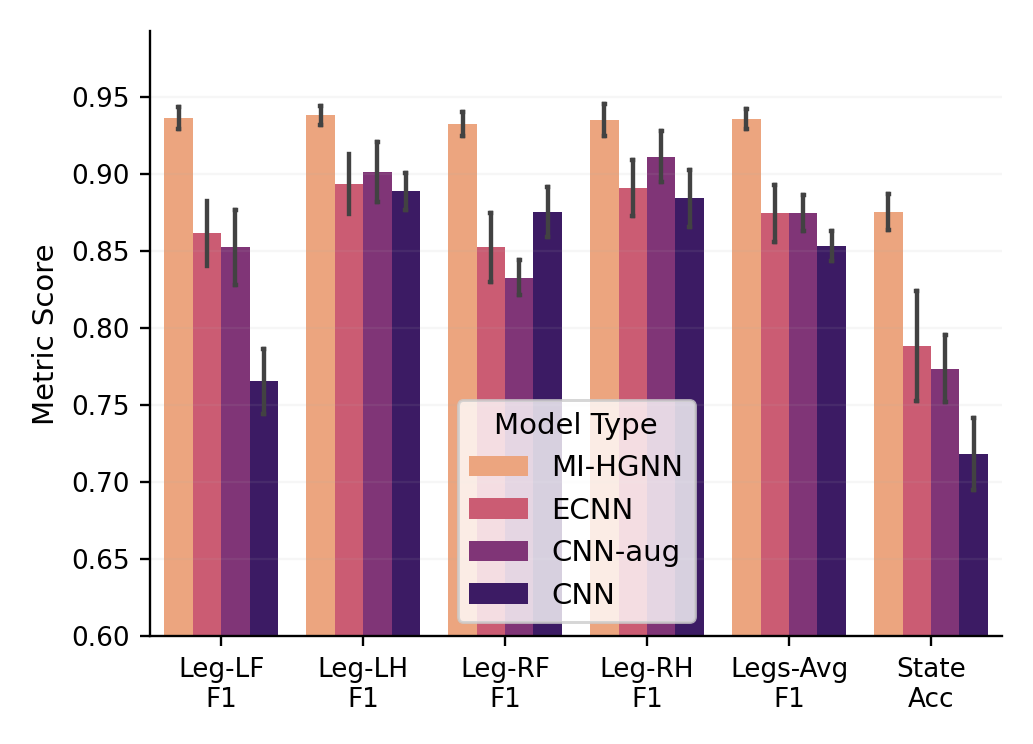
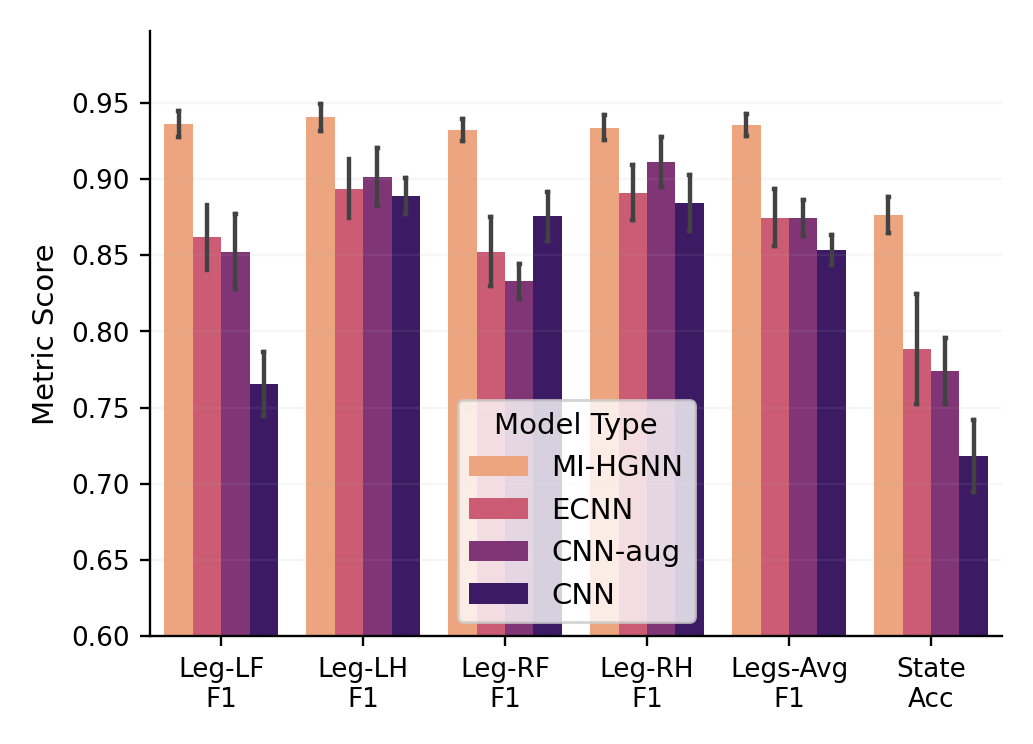
Updated figure to use MI-HGNN models trained with Early Stopping, as used by MorphoSymm

diff --git a/paper/contact_final_model_comparison.py b/paper/contact_final_model_comparison.py
@@ -262,10 +262,7 @@ def generate_figure_4_right():
             df_legs_states = pandas.concat((df_legs_states, df_state))
 
     # Load the MIHGNN results and put them into the dataframe
-    mihgnn_results = pd.read_csv("experiments/contact_sample_eff_splitted_mini-cheetah/model=MIHGNN_train_ratio=0.85/mi-hgnn_8_model_results.csv", index_col=0)
-
-    # Remove irrelevant columns
-    mihgnn_drop = mihgnn_results.drop(["State", "Created", "Updated", "GPU Type", "Hostname", "Runtime", "seed"], axis=1)
+    mihgnn_drop = pd.read_csv("experiments/contact_sample_eff_splitted_mini-cheetah/model=MIHGNN_train_ratio=0.85/mi-hgnn_8_model_results.csv", index_col=0)
 
     # Note: For our metrics:
     # Leg 0 -> RL -> LH
